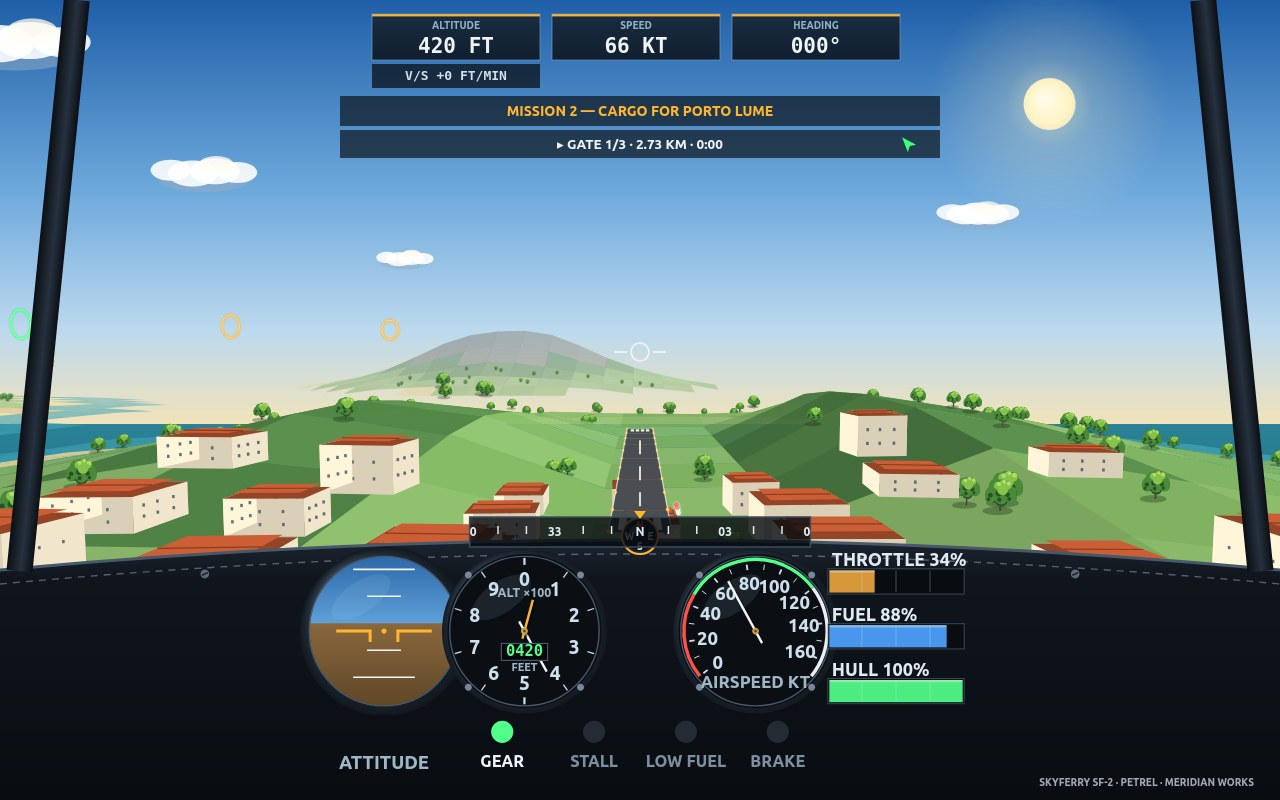
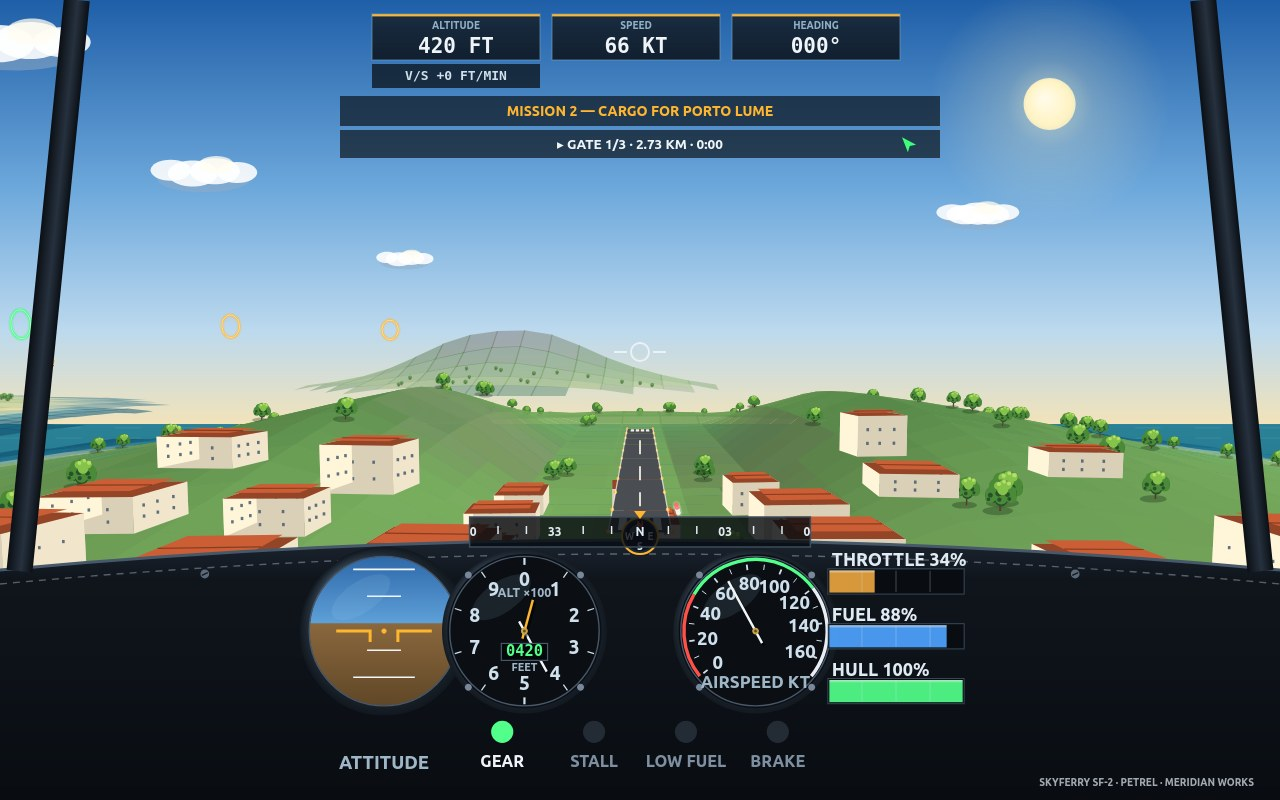
Terrain realism v4: de-boxed ground — subdivided vertex-lit mesh over a continuous colour ramp (sea floor to snowcap), foam-edged shorelines, strata rock, noise-broken snowline, swell bands on the sea

diff --git a/game/src/renderer-3d.js b/game/src/renderer-3d.js
@@ -1,8 +1,9 @@
 // renderer-3d.js — a hand-rolled perspective projector that paints the
 // archipelago on a 2D canvas: sky, sun and cloud shadows first, then the
-// heightfield as flat-shaded facets sorted far to near, then runways, the
-// harbour town, landmarks and the mission rings. One job: turn world
-// coordinates into a picture a pilot can read at a glance.
+// heightfield as a subdivided, vertex-lit mesh over a continuous colour
+// ramp sorted far to near, then runways, the harbour town, landmarks and
+// the mission rings. One job: turn world coordinates into a picture a
+// pilot can read at a glance.
 
 import { WORLD, PALETTE, RUNWAYS } from './config.js';
 import { groundHeight, surfaceKind, chartNoise, TOWN_BLOCKS, LANDMARKS } from './terrain-archipelago.js';
@@ -30,6 +31,184 @@ export function shade(hex, f) {
 export function cellHash(gx, gz) {
   const s = Math.sin(gx * 127.1 + gz * 311.7) * 43758.5453;
   return s - Math.floor(s);
+}
+
+// --- The de-boxed ground: one continuous colour ramp, vertex-lit ---
+// v1–v3 coloured each 130 m cell with a single flat fill picked from
+// hard biome classes, so beaches came out as squares, the sea shelf
+// as flat rectangles and the mountain as plain facets. The ground is
+// now coloured by a ramp that never steps: every vertex of a fine
+// 65 m grid takes its colour from its own height, slope and chart
+// noise, lit by its own surface normal, and each drawn quad averages
+// its corners — slopes shade continuously and biome edges wander
+// with the contours instead of snapping to the grid.
+
+const RGB_CACHE = new Map();
+
+export function hexRgb(hex) {
+  let rgb = RGB_CACHE.get(hex);
+  if (!rgb) {
+    const n = parseInt(hex.slice(1), 16);
+    rgb = [(n >> 16) & 255, (n >> 8) & 255, n & 255];
+    RGB_CACHE.set(hex, rgb);
+  }
+  return rgb;
+}
+
+function mixRgb(a, b, t) {
+  return [
+    a[0] + (b[0] - a[0]) * t,
+    a[1] + (b[1] - a[1]) * t,
+    a[2] + (b[2] - a[2]) * t,
+  ];
+}
+
+// Smoothstep between two edges: the only way colours change here.
+function sstep(a, b, v) {
+  const t = Math.max(0, Math.min(1, (v - a) / (b - a)));
+  return t * t * (3 - 2 * t);
+}
+
+// The ramp itself: sea floor → shelf → shallows → wet sand → dry
+// sand → mottled grass → strata rock → noise-broken snow, every
+// boundary a blend band several metres wide.
+export function terrainBaseRgb(h, slope, x, z) {
+  if (h < 0.4) {
+    // Underwater: the shelf falls away in one gradient, deep
+    // blue-green under the keel to pale turquoise at the lip, then
+    // darkens into wet sand exactly where the water lets go.
+    let c = mixRgb(hexRgb(PALETTE.seaDeep), hexRgb(PALETTE.seaFloor), sstep(-11, -4, h));
+    c = mixRgb(c, hexRgb(PALETTE.seaShelf), sstep(-4.5, -1.2, h));
+    c = mixRgb(c, hexRgb(PALETTE.seaShallow), sstep(-1.4, 0.1, h));
+    return mixRgb(c, hexRgb(PALETTE.sandWet), sstep(-0.1, 0.45, h));
+  }
+  // Sand: wet at the waterline, dry and pale a few metres up. Over
+  // the very lip lies the foam's soft edge — a pale band whose
+  // strength the fine chart noise keeps breaking up, so the waterline
+  // reads as surf, not as a drawn line.
+  let c = mixRgb(hexRgb(PALETTE.sandWet), hexRgb(PALETTE.sandDry), sstep(0.4, 3.4, h));
+  const foamN = 0.5 + 0.5 * chartNoise(x * 2.6, z * 2.6);
+  const foam = (1 - Math.abs(h - 0.65) / 0.95) * (0.3 + 0.55 * foamN);
+  if (foam > 0) c = mixRgb(c, hexRgb(PALETTE.foam), Math.min(0.55, foam));
+  // Grass: two tones married by height, then mottled toward scrub
+  // by the chart noise so no meadow is one flat sheet of green.
+  const g = mixRgb(hexRgb(PALETTE.grassLow), hexRgb(PALETTE.grassHigh), sstep(8, 120, h));
+  const mottle = 0.5 + 0.5 * chartNoise(x * 2.3, z * 2.3);
+  const grass = mixRgb(g, hexRgb(PALETTE.scrub), mottle * 0.45);
+  c = mixRgb(c, grass, sstep(3.8, 8.5, h));
+  // Rock: strata bands that follow the contour lines, their edges
+  // broken by noise, with darker scree flecked through them. Steep
+  // ground gives up its grass and shows rock at any height, and high
+  // ground turns rocky even where it lies gentle.
+  const strata = 0.5 + 0.5 * Math.sin(h * 0.115 + chartNoise(x, z) * 2.4);
+  let rock = mixRgb(hexRgb(PALETTE.rockDark), hexRgb(PALETTE.rock), 0.25 + strata * 0.65);
+  const scree = 0.5 + 0.5 * chartNoise(x * 5.1, z * 5.1);
+  rock = mixRgb(rock, hexRgb(PALETTE.rockDark), scree * 0.22);
+  const rockAmt = Math.max(sstep(0.52, 0.9, slope), sstep(125, 185, h));
+  c = mixRgb(c, rock, rockAmt * sstep(6, 26, h));
+  // Snow: an irregular line the noise pushes up one gully and down
+  // the next, lying deep only where the slope is gentle enough to
+  // hold it, and streaked with blue shadow runs.
+  const snowLine = 272 + chartNoise(x * 1.35, z * 1.35) * 42;
+  const snowAmt = sstep(snowLine - 20, snowLine + 22, h) * (1 - sstep(0.75, 1.25, slope) * 0.7);
+  if (snowAmt > 0) {
+    const streak = 0.5 + 0.5 * chartNoise(x * 3.1, z * 3.1);
+    const snow = mixRgb(hexRgb(PALETTE.snow), hexRgb(PALETTE.snowShade), streak * 0.55);
+    c = mixRgb(c, snow, snowAmt);
+  }
+  // Fine organic mottling, the last word: a noise pass at tens of
+  // metres' wavelength, so flat meadows and beaches carry tonal
+  // patches that wander like real ground — never polished flat, and
+  // never repeating with the grid that draws them.
+  const fine = 0.5 + 0.5 * chartNoise(x * 13.7, z * 13.7);
+  const tone = 0.965 + fine * 0.07;
+  return [c[0] * tone, c[1] * tone, c[2] * tone];
+}
+
+// The fine shading grid: vertices every 65 m (half a terrain cell),
+// their heights and lit colours cached for the length of one frame
+// so neighbouring cells share the very same corner — the mesh has
+// no seams and the colour field has no steps.
+const FINE = WORLD.terrainStep / 2;
+let heightCache = new Map();
+let vertexCache = new Map();
+
+function cacheKey(ix, iz) {
+  return (ix + 512) * 2048 + (iz + 512);
+}
+
+function heightAt(ix, iz) {
+  const k = cacheKey(ix, iz);
+  let h = heightCache.get(k);
+  if (h === undefined) {
+    h = groundHeight(ix * FINE, iz * FINE);
+    heightCache.set(k, h);
+  }
+  return h;
+}
+
+// One grid vertex, fully lit: its normal comes from the heightfield
+// itself (forward differences over the fine step), its colour from
+// the ramp, and a whisper of per-vertex grain — planted by the grid
+// hash — so sand and grass carry speckle instead of polish.
+export function vertexAt(ix, iz) {
+  const k = cacheKey(ix, iz);
+  let v = vertexCache.get(k);
+  if (v) return v;
+  const x = ix * FINE;
+  const z = iz * FINE;
+  const h = heightAt(ix, iz);
+  const dhx = (heightAt(ix + 1, iz) - h) / FINE;
+  const dhz = (heightAt(ix, iz + 1) - h) / FINE;
+  const inv = 1 / Math.hypot(dhx, 1, dhz);
+  const dot = (-dhx * SUN_DIR.x + SUN_DIR.y - dhz * SUN_DIR.z) * inv;
+  const light = 0.62 + 0.55 * Math.max(0, dot);
+  const slope = Math.hypot(dhx, dhz);
+  const base = surfaceKind(x, z, h) === 'runway'
+    ? hexRgb(PALETTE.runway)
+    : terrainBaseRgb(h, slope, x, z);
+  const grain = 0.985 + cellHash(ix * 3 + 11, iz * 3 - 7) * 0.03;
+  const f = light * grain;
+  v = {
+    h,
+    r: Math.min(255, base[0] * f),
+    g: Math.min(255, base[1] * f),
+    b: Math.min(255, base[2] * f),
+  };
+  vertexCache.set(k, v);
+  return v;
+}
+
+// A sample anywhere on the ground: an exact grid vertex when the
+// point lands on the fine grid, otherwise a bilinear blend of the
+// four vertices around it — height and lit colour alike, so a
+// subdivided quad curves with the hill instead of faceting.
+export function samplePoint(wx, wz) {
+  const gx = wx / FINE;
+  const gz = wz / FINE;
+  const ix = Math.floor(gx);
+  const iz = Math.floor(gz);
+  const fx = gx - ix;
+  const fz = gz - iz;
+  if (fx < 0.002 && fz < 0.002) return vertexAt(ix, iz);
+  const a = vertexAt(ix, iz);
+  const b = vertexAt(ix + 1, iz);
+  const c = vertexAt(ix, iz + 1);
+  const d = vertexAt(ix + 1, iz + 1);
+  const topH = a.h + (b.h - a.h) * fx;
+  const botH = c.h + (d.h - c.h) * fx;
+  const topR = a.r + (b.r - a.r) * fx;
+  const botR = c.r + (d.r - c.r) * fx;
+  const topG = a.g + (b.g - a.g) * fx;
+  const botG = c.g + (d.g - c.g) * fx;
+  const topB = a.b + (b.b - a.b) * fx;
+  const botB = c.b + (d.b - c.b) * fx;
+  return {
+    h: topH + (botH - topH) * fz,
+    r: topR + (botR - topR) * fz,
+    g: topG + (botG - topG) * fz,
+    b: topB + (botB - topB) * fz,
+  };
 }
 
 export function createCamera() {
@@ -145,13 +324,40 @@ export function drawSea(ctx, project, camera, width, height, horizon) {
       ctx.fillRect(p.x, p.y, Math.max(1.5, p.scale * (onPath ? 9 : 6)), 1.4);
     }
   }
+  // Swell: long low bands of light rolling across the water, drawn
+  // as dashed projected lines ahead of the camera so they lie on the
+  // sea's own surface, foreshorten with distance and break up the
+  // last of the flat open-water sheet.
+  const fxw = Math.sin(camera.heading);
+  const fzw = -Math.cos(camera.heading);
+  const rxw = -fzw;
+  const rzw = fxw;
+  ctx.lineWidth = 1.3;
+  ctx.setLineDash([26, 34]);
+  for (let k = 0; k < 9; k++) {
+    const d = 300 + k * 330 + (k % 3) * 80;
+    ctx.strokeStyle = `rgba(214,240,248,${0.085 - k * 0.006})`;
+    ctx.beginPath();
+    let pen = false;
+    for (let sgm = -4; sgm <= 4; sgm++) {
+      const off = sgm * d * 0.3;
+      const p = project(
+        camera.x + fxw * d + rxw * off, 0,
+        camera.z + fzw * d + rzw * off);
+      if (p && p.y > horizon) {
+        if (!pen) { ctx.moveTo(p.x, p.y); pen = true; } else ctx.lineTo(p.x, p.y);
+      } else pen = false;
+    }
+    ctx.stroke();
+  }
+  ctx.setLineDash([]);
 }
 
-const KIND_FILL = {
-  sand: PALETTE.sand, grass: null, rock: PALETTE.rock, snow: PALETTE.snow,
-};
-
 export function drawTerrain(ctx, project, plane) {
+  // Fresh shading caches for this frame: the vertex grid is anchored
+  // to the world, so a vertex keeps its colour as the camera moves.
+  heightCache = new Map();
+  vertexCache = new Map();
   const step = WORLD.terrainStep;
   const R = WORLD.terrainRadius;
   const gx0 = Math.floor((plane.x - R) / step);
@@ -164,7 +370,7 @@ export function drawTerrain(ctx, project, plane) {
       const x = gx * step;
       const z = gz * step;
       const h = groundHeight(x + step / 2, z + step / 2);
-      if (h < -9) continue; // deep water is the sea's job; the shelf is ours
+      if (h < -12.5) continue; // only the true abyss is the flat sea's job
       const dx = x + step / 2 - plane.x;
       const dz = z + step / 2 - plane.z;
       cells.push({ x, z, h, d2: dx * dx + dz * dz });
@@ -172,40 +378,71 @@ export function drawTerrain(ctx, project, plane) {
   }
   cells.sort((a, b) => b.d2 - a.d2);
   for (const cell of cells) {
-    // Haze: far facets fade toward the sky so the chart's edge dissolves
+    // Haze: far ground fades toward the sky so the chart's edge dissolves
     // instead of ending in a confetti of grazing-angle slivers.
     ctx.globalAlpha = Math.max(0.42, Math.min(1, 1.18 - Math.sqrt(cell.d2) / 3600));
-    // Corner heights, not one flat height per cell: neighbouring cells
-    // share the same corner samples, so the mesh is continuous — no
-    // see-through gaps on steep slopes, no floating tiles.
-    const s = step + 1;
-    const h1 = groundHeight(cell.x, cell.z);
-    const h2 = groundHeight(cell.x + s, cell.z);
-    const h3 = groundHeight(cell.x + s, cell.z + s);
-    const h4 = groundHeight(cell.x, cell.z + s);
-    const p1 = project(cell.x, h1, cell.z);
-    const p2 = project(cell.x + s, h2, cell.z);
-    const p3 = project(cell.x + s, h3, cell.z + s);
-    const p4 = project(cell.x, h4, cell.z + s);
-    if (!p1 || !p2 || !p3 || !p4) continue;
+    // Adaptive subdivision: the ground under the aeroplane is cut
+    // four ways, the mid-distance two, the far hills left whole —
+    // the mesh is finest exactly where a pilot's eye can measure it,
+    // and the frame rate never pays for detail nobody can see.
+    const dist = Math.sqrt(cell.d2);
+    const n = dist < 620 ? 4 : dist < 2400 ? 2 : 1;
+    const pts = [];
+    for (let j = 0; j <= n; j++) {
+      for (let i = 0; i <= n; i++) {
+        const wx = cell.x + (step * i) / n;
+        const wz = cell.z + (step * j) / n;
+        const v = samplePoint(wx, wz);
+        const p = project(wx, v.h, wz);
+        pts.push(p ? { x: p.x, y: p.y, r: v.r, g: v.g, b: v.b } : null);
+      }
+    }
+    // Each sub-quad takes the average of its four lit corners: with
+    // corners shared between neighbours and colours drawn from the
+    // continuous ramp, the eye reads one smooth hillside — no facet
+    // lines on the mountain, no squares on the beach.
+    for (let j = 0; j < n; j++) {
+      for (let i = 0; i < n; i++) {
+        const a = pts[j * (n + 1) + i];
+        const b = pts[j * (n + 1) + i + 1];
+        const c = pts[(j + 1) * (n + 1) + i + 1];
+        const d = pts[(j + 1) * (n + 1) + i];
+        if (!a || !b || !c || !d) continue;
+        ctx.fillStyle = `rgb(${Math.round((a.r + b.r + c.r + d.r) / 4)},${Math.round((a.g + b.g + c.g + d.g) / 4)},${Math.round((a.b + b.b + c.b + d.b) / 4)})`;
+        // Each corner pushed a hair outward from the quad's centre:
+        // projected neighbours land on fractional pixels, and an
+        // exact fit leaves hairline seams that print the mesh onto
+        // flat ground like graph paper. The whisker of overlap is
+        // invisible; the seams were not.
+        const cx = (a.x + b.x + c.x + d.x) / 4;
+        const cy = (a.y + b.y + c.y + d.y) / 4;
+        const grow = (p) => {
+          const dx = p.x - cx;
+          const dy = p.y - cy;
+          const len = Math.hypot(dx, dy) || 1;
+          return [p.x + (dx / len) * 0.7, p.y + (dy / len) * 0.7];
+        };
+        const [ax, ay] = grow(a);
+        const [bx, by] = grow(b);
+        const [qx, qy] = grow(c);
+        const [dx2, dy2] = grow(d);
+        ctx.beginPath();
+        ctx.moveTo(ax, ay);
+        ctx.lineTo(bx, by);
+        ctx.lineTo(qx, qy);
+        ctx.lineTo(dx2, dy2);
+        ctx.closePath();
+        ctx.fill();
+      }
+    }
     const kind = surfaceKind(cell.x + step / 2, cell.z + step / 2, cell.h);
-    // Slope from the corner heights: the face normal against SUN_DIR
-    // gives one light factor for the whole facet, so hillsides facing
-    // the sun glow and the lee sides sit in honest shade.
-    const dhx = ((h2 + h3) - (h1 + h4)) / (2 * step);
-    const dhz = ((h3 + h4) - (h1 + h2)) / (2 * step);
-    const inv = 1 / Math.hypot(dhx, 1, dhz);
-    const dot = (-dhx * SUN_DIR.x + SUN_DIR.y - dhz * SUN_DIR.z) * inv;
-    const light = 0.62 + 0.55 * Math.max(0, dot);
+    // Slope for the tree planter, from the fine grid's own heights.
+    const fi = Math.round(cell.x / FINE);
+    const fj = Math.round(cell.z / FINE);
+    const e = 2; // one coarse cell = two fine steps
+    const dhx = ((heightAt(fi + e, fj) + heightAt(fi + e, fj + e)) - (heightAt(fi, fj) + heightAt(fi, fj + e))) / (2 * step);
+    const dhz = ((heightAt(fi, fj + e) + heightAt(fi + e, fj + e)) - (heightAt(fi, fj) + heightAt(fi + e, fj))) / (2 * step);
     const steep = Math.hypot(dhx, dhz);
-    ctx.fillStyle = shadeFor(kind, cell.h, cell.x, cell.z, light, steep);
-    ctx.beginPath();
-    ctx.moveTo(p1.x, p1.y);
-    ctx.lineTo(p2.x, p2.y);
-    ctx.lineTo(p3.x, p3.y);
-    ctx.lineTo(p4.x, p4.y);
-    ctx.closePath();
-    ctx.fill();
     drawCellTrees(ctx, project, cell, kind, steep);
   }
   ctx.globalAlpha = 1;
@@ -379,25 +616,6 @@ function drawBroadleafTree(ctx, foot, w, hh, jitter) {
     ctx.arc(foot.x + (px + 0.2) * crownR, crownY - (py + 0.24) * crownR, pr * crownR * 0.3, 0, Math.PI * 2);
     ctx.fill();
   }
-}
-
-function shadeFor(kind, h, x, z, light, steep) {
-  if (kind === 'runway') return PALETTE.runway;
-  if (h < 0.5) return shade(PALETTE.seaShallow, light); // the shoreline shelf
-  if (kind === 'sand') return shade(h < 2.4 ? PALETTE.sandWet : PALETTE.sand, light);
-  if (kind === 'snow') {
-    // Snowfields break into streaks: the chart noise lays soft blue
-    // shadow runs down the mountain instead of one white slab.
-    const streak = chartNoise(x * 0.7, z * 0.7);
-    return shade(streak > 0.28 ? PALETTE.snowShade : PALETTE.snow, light);
-  }
-  // Steep grass gives up and shows rock, the way real hillsides do.
-  if (steep > 0.62 && h > 42) return shade(steep > 0.95 ? PALETTE.rockDark : PALETTE.rock, light);
-  if (KIND_FILL[kind]) return shade(KIND_FILL[kind], light);
-  // Grass takes two tones by height so slopes read as slopes.
-  const tone = ((Math.floor(x / 130) + Math.floor(z / 130)) % 2 + 2) % 2;
-  if (h < 60) return shade(tone ? PALETTE.grassLow : '#84b166', light);
-  return shade(tone ? PALETTE.grassHigh : '#57884a', light);
 }
 
 export function drawRunways(ctx, project) {

diff --git a/game/src/config.js b/game/src/config.js
@@ -53,10 +53,18 @@ export const PALETTE = {
   sea: '#1d6f8e',
   seaDeep: '#124e6a',
   seaShallow: '#3a97a8',
+  // The de-boxed shore: the underwater shelf falls from a pale
+  // turquoise lip through a mid shelf tone to the deep floor colour,
+  // and the beach itself runs wet → dry with a soft foam edge.
+  seaShelf: '#2f8aa5',
+  seaFloor: '#155e7d',
   sand: '#e6d194',
+  sandDry: '#eed9a0',
   sandWet: '#cbb37e',
+  foam: '#f8f4e4',
   grassLow: '#79a95c',
   grassHigh: '#4d7d43',
+  scrub: '#5d8a4c',
   treeDark: '#2e5d33',
   treeLight: '#4c8148',
   // Broadleaf tones, taken from a real park tree's crown: a grey-brown
